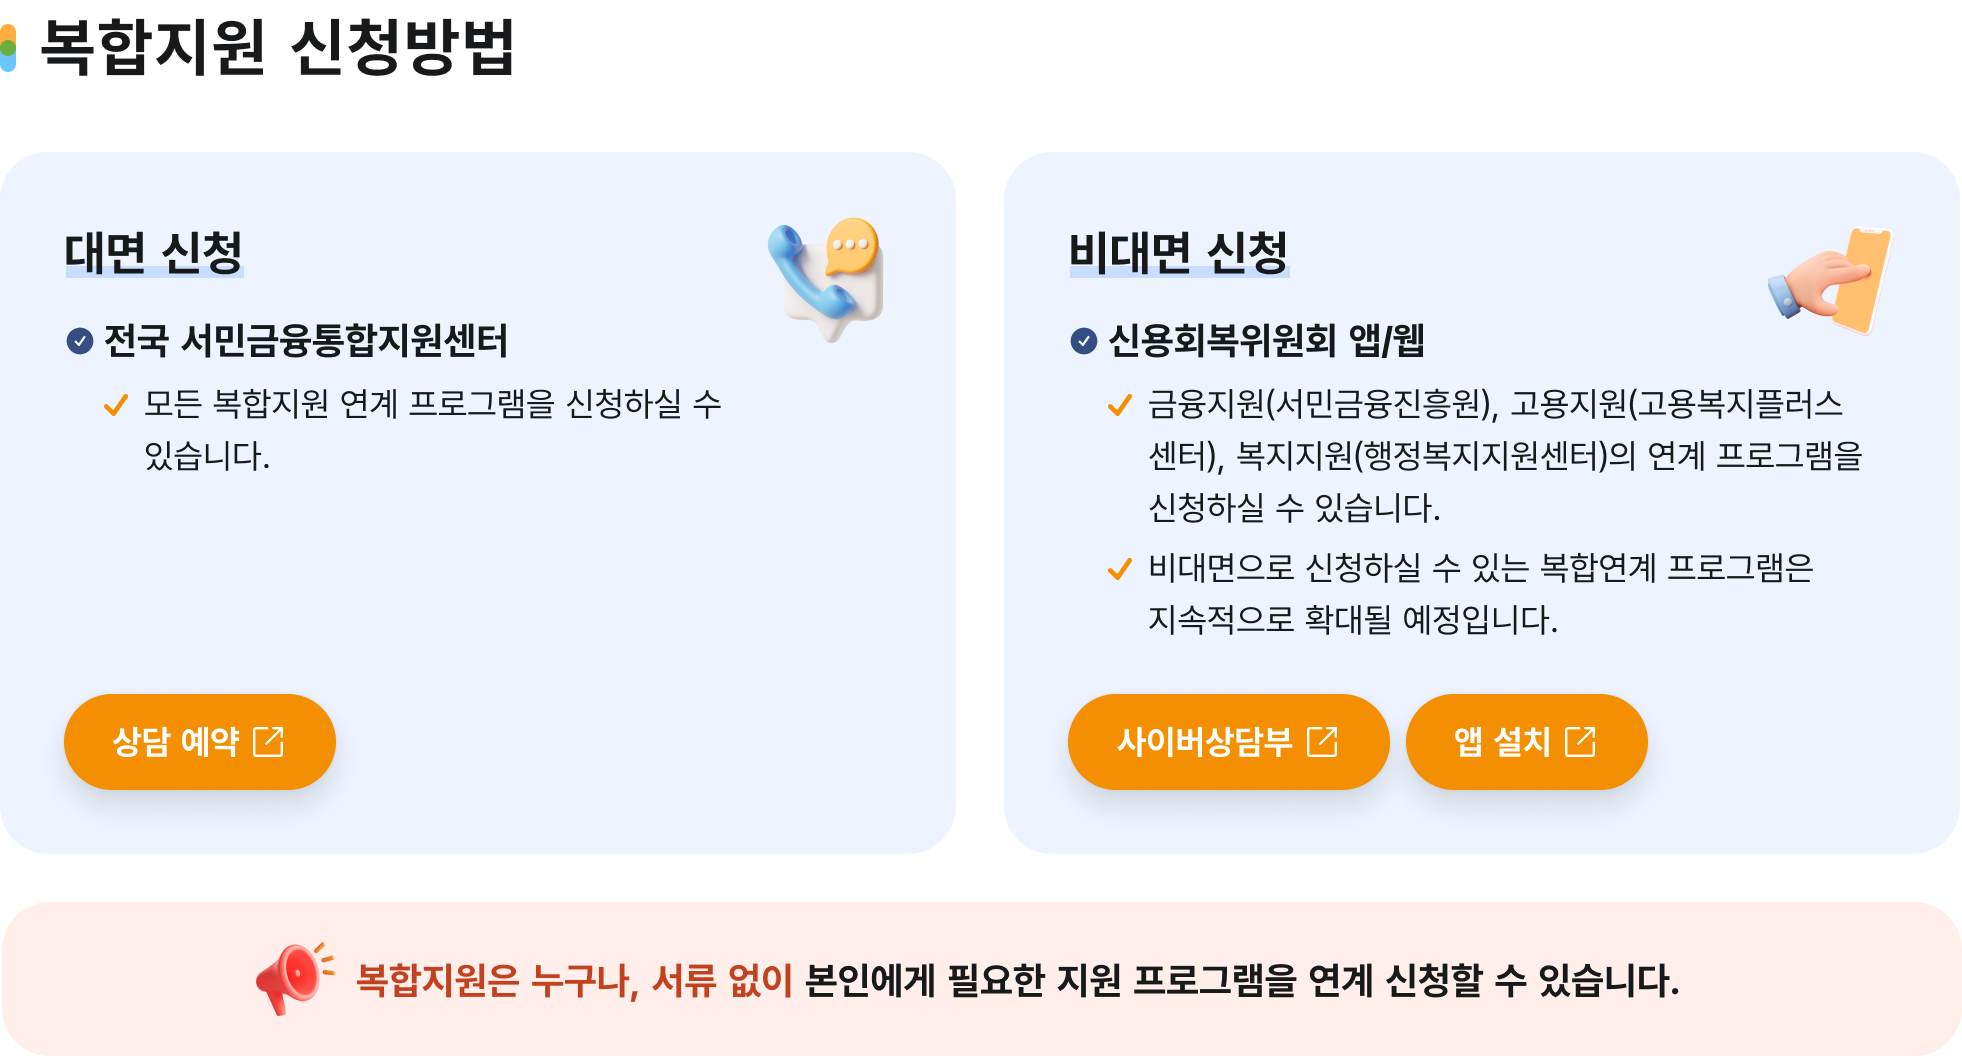
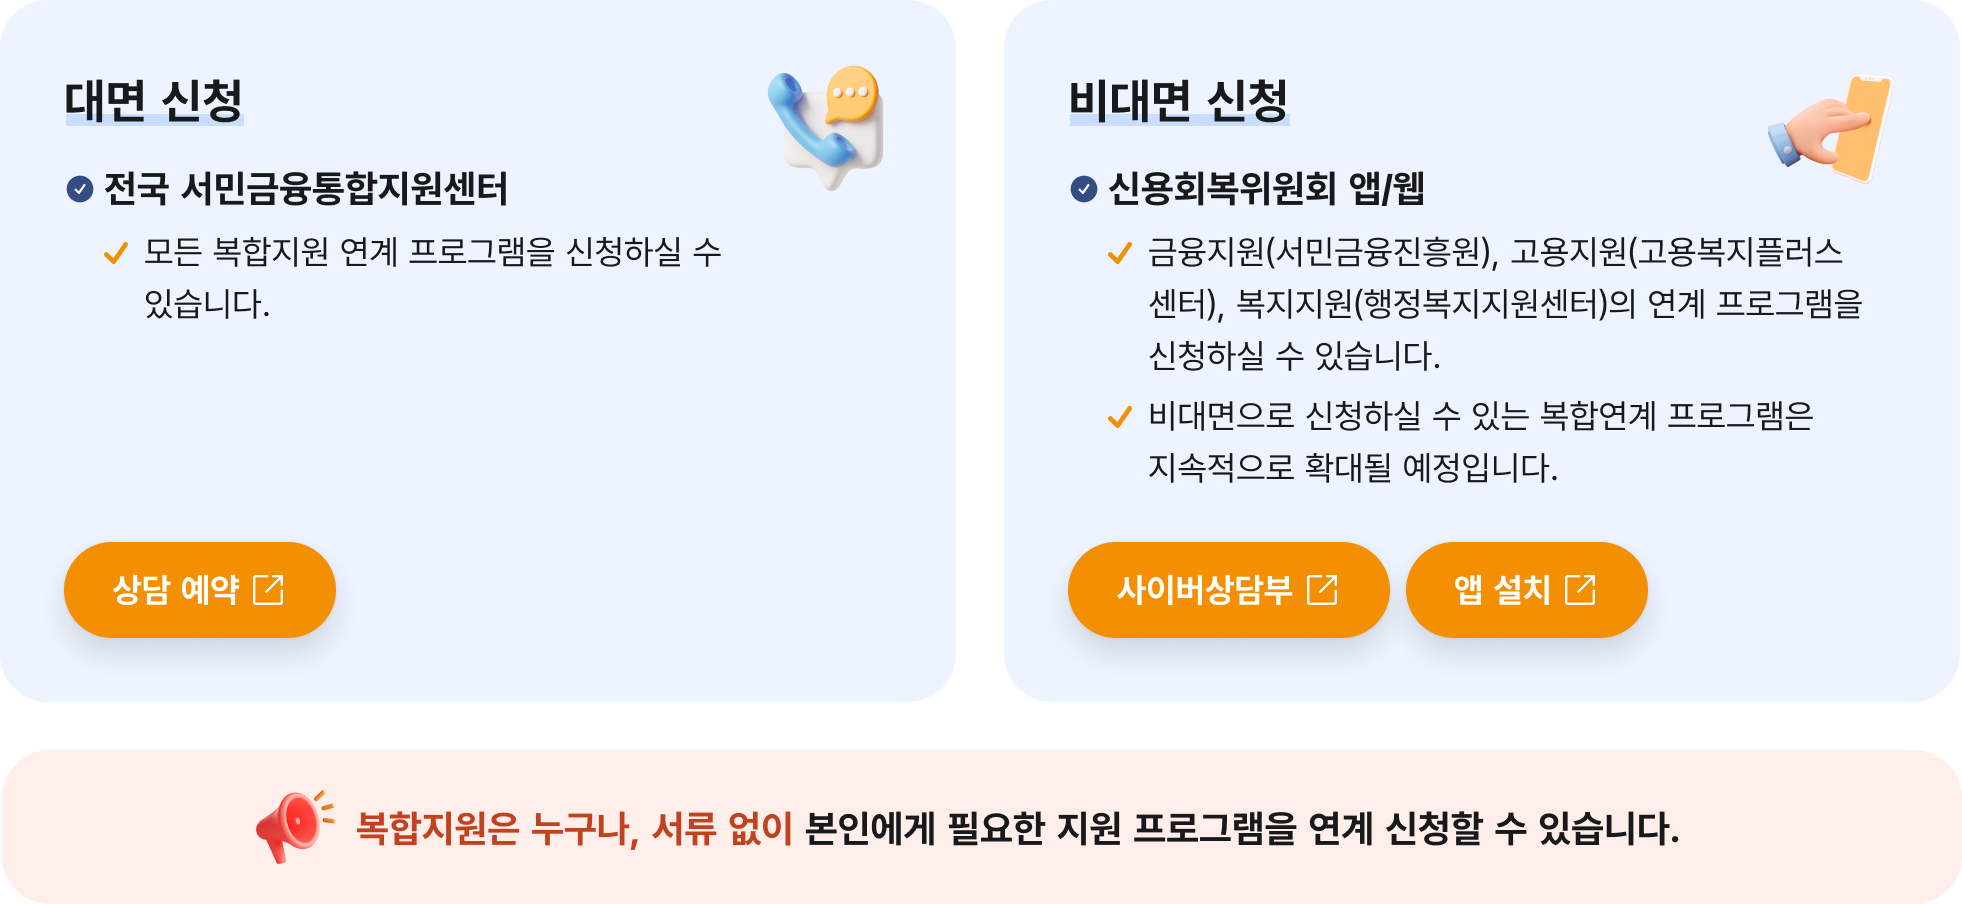
수정사항 반영

diff --git a/html/복합지원신청_고용지원.html b/html/복합지원신청_고용지원.html
@@ -185,55 +185,14 @@
                                         </div>
                                     </div>
                                 </div>
-                                
-                                <div class="btn-area">
-                                    <button type="button" onclick="goToPage('복합지원신청_신청방법.html')" class="krds-btn medium primary">신청하기<i class="svg-icon ico-angle right"></i></button>
-                                </div>
                             </div>
                         </div>
                         <!-- //Content Sections -->
                         <!-- Contact area -->
                         <div class="g-conts-area">
-                            <div class="g-desc-body">
-                                <div class="g-grid-wrap contect">
-                                    <div class="g-info-box">
-                                        <div class="g-desc-box">
-                                            <div class="g-text-wrap">
-                                                <p class="g-tit">전화예약</p>
-                                                <span class="g-subtit">오전 9시 ~ 오후 6시</span>
-                                            </div>
-                                            <div class="conts-desc largetext primary">
-                                                1600-5500
-                                            </div>
-                                        </div>
-                                        <div class="g-img">
-                                            <img src="/type/www/img/contents/png/icon_booking.png?ver=3.4" />
-                                        </div>
-                                    </div>
-                                    <div class="g-info-box lightblue">
-                                        <div class="g-desc-box">
-                                            <p class="g-tit">인터넷 상담예약</p>
-                                            <a class="conts-desc"
-                                                href="https://cyber.ccrs.or.kr/debt/apply/guide.do"
-                                                target="_blank" title="새창열림">바로가기<img
-                                                    src="/type/www/img/icons/arrow-right.svg" /></a>
-                                        </div>
-                                        <div class="g-img">
-                                            <img src="/type/www/img/contents/png/icon_online_booking.png?ver=3.4" />
-                                        </div>
-                                    </div>
-                                    <div class="g-info-box lightpurple appdown shadow">
-                                        <div class="g-desc-box">
-                                            <p class="g-tit">모바일(APP) 예약</p>
-                                            <div class="conts-desc">
-                                                바로가기
-                                                <img src="/type/www/img/icons/arrow-right.svg" />
-                                            </div>
-                                        </div>
-                                        <div class="g-img">
-                                            <img src="/type/www/img/contents/png/icon_mobile.png?ver=3.4" />
-                                        </div>
-                                    </div>
+                            <div class="cont">
+                                <div class="g-img">
+                                    <img src="/type/www/images/img/복합지원신청방법.png?ver=3.4" alt="">
                                 </div>
                             </div>
                         </div>

diff --git a/html/복합지원신청_금융지원.html b/html/복합지원신청_금융지원.html
@@ -169,55 +169,14 @@
                                         </div>
                                     </div>
                                 </div>
-                                
-                                <div class="btn-area">
-                                    <button type="button" onclick="goToPage('복합지원신청_신청방법.html')" class="krds-btn medium primary">신청하기<i class="svg-icon ico-angle right"></i></button>
-                                </div>
                             </div>
                         </div>
                         <!-- //Content Sections -->
                         <!-- Contact area -->
                         <div class="g-conts-area">
-                            <div class="g-desc-body">
-                                <div class="g-grid-wrap contect">
-                                    <div class="g-info-box">
-                                        <div class="g-desc-box">
-                                            <div class="g-text-wrap">
-                                                <p class="g-tit">전화예약</p>
-                                                <span class="g-subtit">오전 9시 ~ 오후 6시</span>
-                                            </div>
-                                            <div class="conts-desc largetext primary">
-                                                1600-5500
-                                            </div>
-                                        </div>
-                                        <div class="g-img">
-                                            <img src="/type/www/img/contents/png/icon_booking.png?ver=3.4" />
-                                        </div>
-                                    </div>
-                                    <div class="g-info-box lightblue">
-                                        <div class="g-desc-box">
-                                            <p class="g-tit">인터넷 상담예약</p>
-                                            <a class="conts-desc"
-                                                href="https://cyber.ccrs.or.kr/debt/apply/guide.do"
-                                                target="_blank" title="새창열림">바로가기<img
-                                                    src="/type/www/img/icons/arrow-right.svg" /></a>
-                                        </div>
-                                        <div class="g-img">
-                                            <img src="/type/www/img/contents/png/icon_online_booking.png?ver=3.4" />
-                                        </div>
-                                    </div>
-                                    <div class="g-info-box lightpurple appdown shadow">
-                                        <div class="g-desc-box">
-                                            <p class="g-tit">모바일(APP) 예약</p>
-                                            <div class="conts-desc">
-                                                바로가기
-                                                <img src="/type/www/img/icons/arrow-right.svg" />
-                                            </div>
-                                        </div>
-                                        <div class="g-img">
-                                            <img src="/type/www/img/contents/png/icon_mobile.png?ver=3.4" />
-                                        </div>
-                                    </div>
+                            <div class="cont">
+                                <div class="g-img">
+                                    <img src="/type/www/images/img/복합지원신청방법.png?ver=3.4" alt="">
                                 </div>
                             </div>
                         </div>

diff --git a/html/복합지원신청_기타지원.html b/html/복합지원신청_기타지원.html
@@ -148,55 +148,14 @@
                                         </div>
                                     </div>
                                 </div>
-                                
-                                <div class="btn-area">
-                                    <button type="button" onclick="goToPage('복합지원신청_신청방법.html')" class="krds-btn medium primary">신청하기<i class="svg-icon ico-angle right"></i></button>
-                                </div>
                             </div>
                         </div>
                         <!-- //Content Sections -->
                         <!-- Contact area -->
                         <div class="g-conts-area">
-                            <div class="g-desc-body">
-                                <div class="g-grid-wrap contect">
-                                    <div class="g-info-box">
-                                        <div class="g-desc-box">
-                                            <div class="g-text-wrap">
-                                                <p class="g-tit">전화예약</p>
-                                                <span class="g-subtit">오전 9시 ~ 오후 6시</span>
-                                            </div>
-                                            <div class="conts-desc largetext primary">
-                                                1600-5500
-                                            </div>
-                                        </div>
-                                        <div class="g-img">
-                                            <img src="/type/www/img/contents/png/icon_booking.png?ver=3.4" />
-                                        </div>
-                                    </div>
-                                    <div class="g-info-box lightblue">
-                                        <div class="g-desc-box">
-                                            <p class="g-tit">인터넷 상담예약</p>
-                                            <a class="conts-desc"
-                                                href="https://cyber.ccrs.or.kr/debt/apply/guide.do"
-                                                target="_blank" title="새창열림">바로가기<img
-                                                    src="/type/www/img/icons/arrow-right.svg" /></a>
-                                        </div>
-                                        <div class="g-img">
-                                            <img src="/type/www/img/contents/png/icon_online_booking.png?ver=3.4" />
-                                        </div>
-                                    </div>
-                                    <div class="g-info-box lightpurple appdown shadow">
-                                        <div class="g-desc-box">
-                                            <p class="g-tit">모바일(APP) 예약</p>
-                                            <div class="conts-desc">
-                                                바로가기
-                                                <img src="/type/www/img/icons/arrow-right.svg" />
-                                            </div>
-                                        </div>
-                                        <div class="g-img">
-                                            <img src="/type/www/img/contents/png/icon_mobile.png?ver=3.4" />
-                                        </div>
-                                    </div>
+                            <div class="cont">
+                                <div class="g-img">
+                                    <img src="/type/www/images/img/복합지원신청방법.png?ver=3.4" alt="">
                                 </div>
                             </div>
                         </div>

diff --git a/html/복합지원신청_복지지원.html b/html/복합지원신청_복지지원.html
@@ -142,55 +142,14 @@
                                         </div>
                                     </div>
                                 </div>
-                                
-                                <div class="btn-area">
-                                    <button type="button" onclick="goToPage('복합지원신청_신청방법.html')" class="krds-btn medium primary">신청하기<i class="svg-icon ico-angle right"></i></button>
-                                </div>
                             </div>
                         </div>
                         <!-- //Content Sections -->
                         <!-- Contact area -->
                         <div class="g-conts-area">
-                            <div class="g-desc-body">
-                                <div class="g-grid-wrap contect">
-                                    <div class="g-info-box">
-                                        <div class="g-desc-box">
-                                            <div class="g-text-wrap">
-                                                <p class="g-tit">전화예약</p>
-                                                <span class="g-subtit">오전 9시 ~ 오후 6시</span>
-                                            </div>
-                                            <div class="conts-desc largetext primary">
-                                                1600-5500
-                                            </div>
-                                        </div>
-                                        <div class="g-img">
-                                            <img src="/type/www/img/contents/png/icon_booking.png?ver=3.4" />
-                                        </div>
-                                    </div>
-                                    <div class="g-info-box lightblue">
-                                        <div class="g-desc-box">
-                                            <p class="g-tit">인터넷 상담예약</p>
-                                            <a class="conts-desc"
-                                                href="https://cyber.ccrs.or.kr/debt/apply/guide.do"
-                                                target="_blank" title="새창열림">바로가기<img
-                                                    src="/type/www/img/icons/arrow-right.svg" /></a>
-                                        </div>
-                                        <div class="g-img">
-                                            <img src="/type/www/img/contents/png/icon_online_booking.png?ver=3.4" />
-                                        </div>
-                                    </div>
-                                    <div class="g-info-box lightpurple appdown shadow">
-                                        <div class="g-desc-box">
-                                            <p class="g-tit">모바일(APP) 예약</p>
-                                            <div class="conts-desc">
-                                                바로가기
-                                                <img src="/type/www/img/icons/arrow-right.svg" />
-                                            </div>
-                                        </div>
-                                        <div class="g-img">
-                                            <img src="/type/www/img/contents/png/icon_mobile.png?ver=3.4" />
-                                        </div>
-                                    </div>
+                            <div class="cont">
+                                <div class="g-img">
+                                    <img src="/type/www/images/img/복합지원신청방법.png?ver=3.4" alt="">
                                 </div>
                             </div>
                         </div>

diff --git a/html/복합지원신청하기.html b/html/복합지원신청하기.html
@@ -169,55 +169,14 @@
                                         </div>
                                     </div>
                                 </div>
-                                
-                                <div class="btn-area">
-                                    <button type="button" onclick="goToPage('복합지원신청_신청방법.html')" class="krds-btn medium primary">신청하기<i class="svg-icon ico-angle right"></i></button>
-                                </div>
                             </div>
                         </div>
                         <!-- //Content Sections -->
                         <!-- Contact area -->
                         <div class="g-conts-area">
-                            <div class="g-desc-body">
-                                <div class="g-grid-wrap contect">
-                                    <div class="g-info-box">
-                                        <div class="g-desc-box">
-                                            <div class="g-text-wrap">
-                                                <p class="g-tit">전화예약</p>
-                                                <span class="g-subtit">오전 9시 ~ 오후 6시</span>
-                                            </div>
-                                            <div class="conts-desc largetext primary">
-                                                1600-5500
-                                            </div>
-                                        </div>
-                                        <div class="g-img">
-                                            <img src="/type/www/img/contents/png/icon_booking.png?ver=3.4" />
-                                        </div>
-                                    </div>
-                                    <div class="g-info-box lightblue">
-                                        <div class="g-desc-box">
-                                            <p class="g-tit">인터넷 상담예약</p>
-                                            <a class="conts-desc"
-                                                href="https://cyber.ccrs.or.kr/debt/apply/guide.do"
-                                                target="_blank" title="새창열림">바로가기<img
-                                                    src="/type/www/img/icons/arrow-right.svg" /></a>
-                                        </div>
-                                        <div class="g-img">
-                                            <img src="/type/www/img/contents/png/icon_online_booking.png?ver=3.4" />
-                                        </div>
-                                    </div>
-                                    <div class="g-info-box lightpurple appdown shadow">
-                                        <div class="g-desc-box">
-                                            <p class="g-tit">모바일(APP) 예약</p>
-                                            <div class="conts-desc">
-                                                바로가기
-                                                <img src="/type/www/img/icons/arrow-right.svg" />
-                                            </div>
-                                        </div>
-                                        <div class="g-img">
-                                            <img src="/type/www/img/contents/png/icon_mobile.png?ver=3.4" />
-                                        </div>
-                                    </div>
+                            <div class="cont">
+                                <div class="g-img">
+                                    <img src="/type/www/images/img/복합지원신청방법.png?ver=3.4" alt="">
                                 </div>
                             </div>
                         </div>
